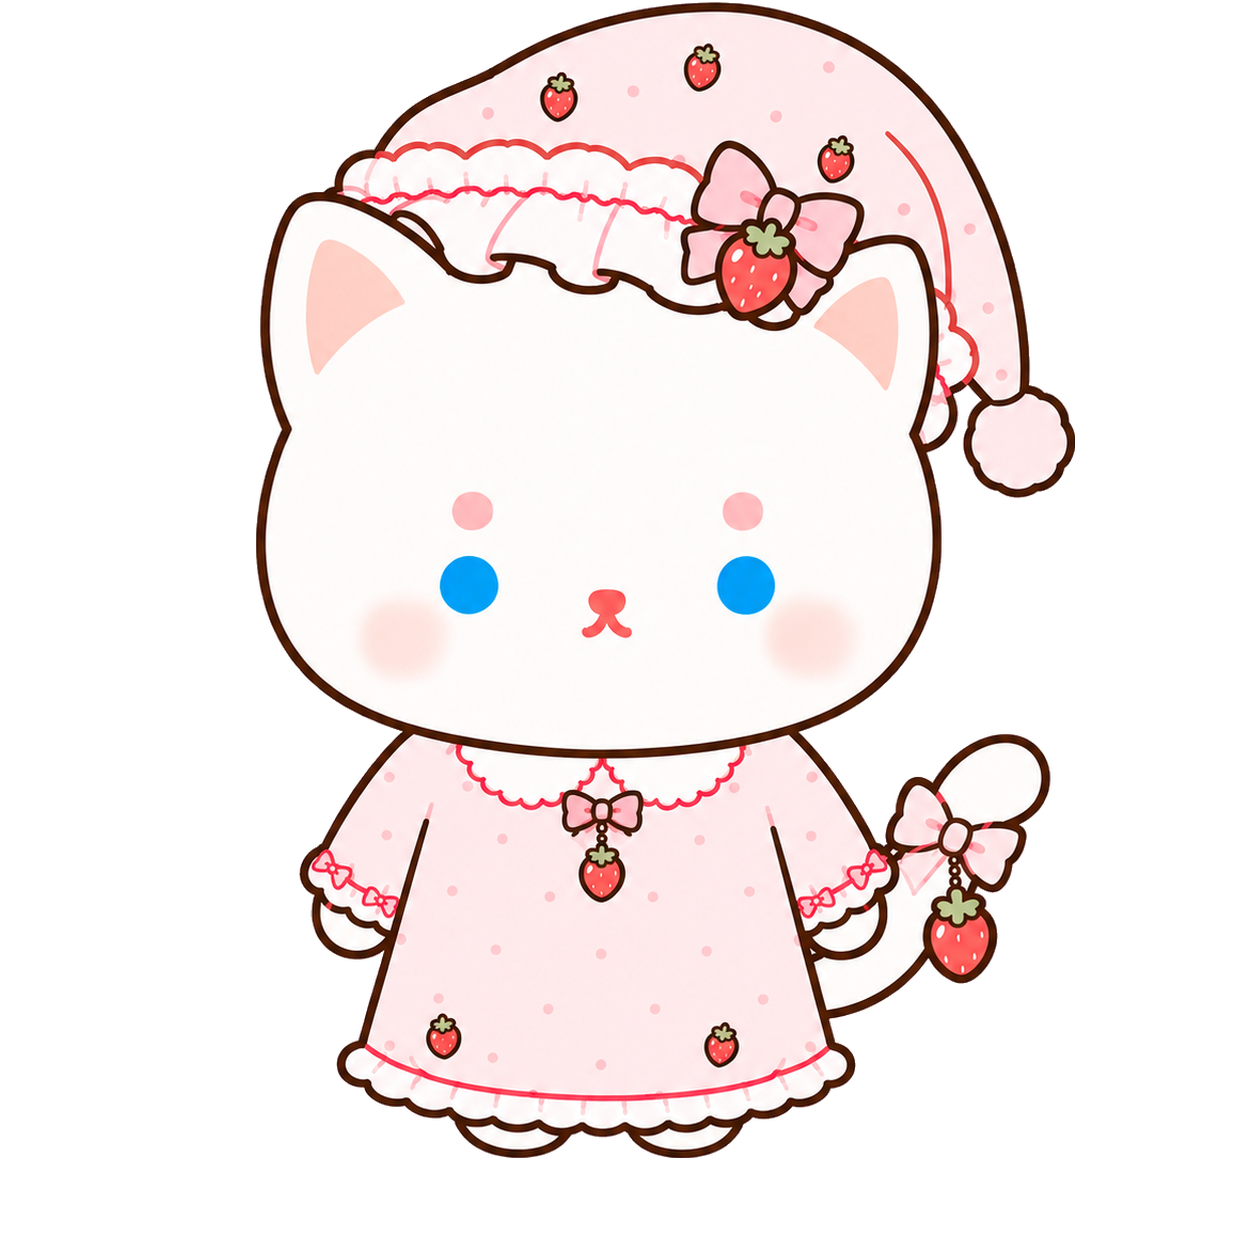
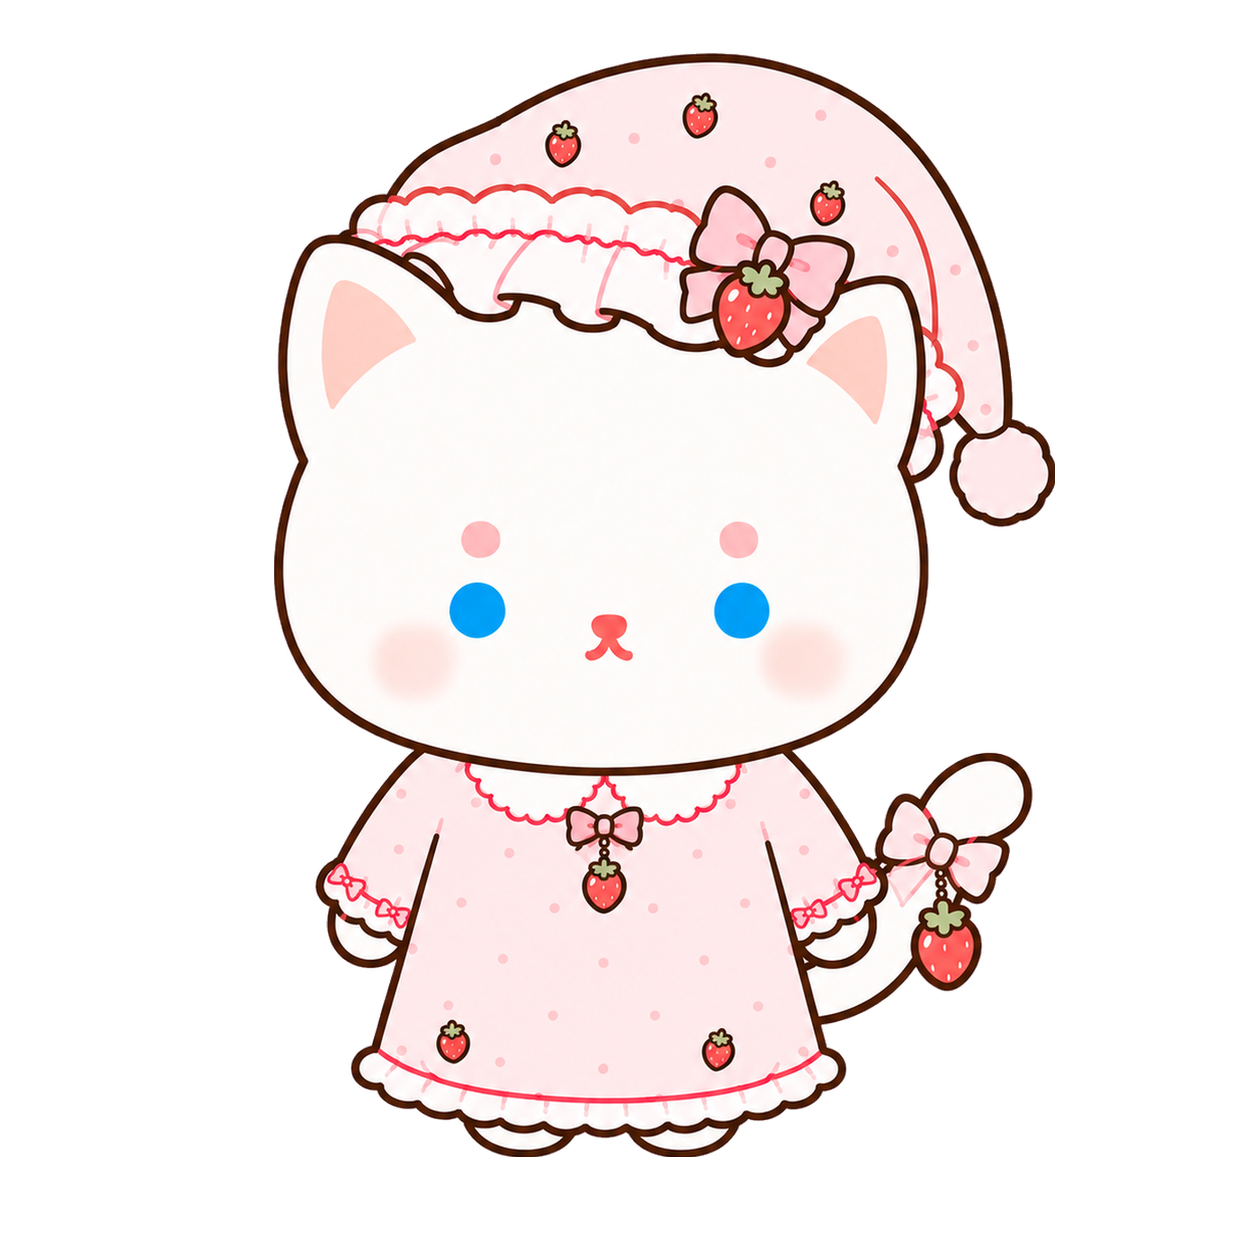
fix(bun): shrink whole cast uniformly (same ratio), feet aligned
Scale every Bun outfit down 0.90x together so they read a touch smaller
while staying the same size as each other; re-land all feet on the shared
line (also brings dreams back onto it after its face-match push). Metrics
re-measured.

diff --git a/src/constants/figure-calibration.ts b/src/constants/figure-calibration.ts
@@ -4,11 +4,11 @@
 // fractions of the square render box (contentFit: "contain"). Consumed by
 // src/lib/figure-height.ts to equalize figure heights in the study room.
 export const FIGURE_METRICS: Record<string, { fill: number; pad: number }> = {
-  'bun/angel': { fill: 0.9092, pad: 0.0723 },
-  'bun/classic': { fill: 0.9211, pad: 0.0766 },
-  'bun/dreams': { fill: 0.9219, pad: 0.0766 },
-  'bun/snowrabbit': { fill: 0.9211, pad: 0.0774 },
-  'bun/strawberry': { fill: 0.9211, pad: 0.0774 },
+  'bun/angel': { fill: 0.8168, pad: 0.0773 },
+  'bun/classic': { fill: 0.8285, pad: 0.0774 },
+  'bun/dreams': { fill: 0.8804, pad: 0.0774 },
+  'bun/snowrabbit': { fill: 0.8285, pad: 0.0774 },
+  'bun/strawberry': { fill: 0.8285, pad: 0.0774 },
   'companion_bunny/classic': { fill: 0.8939, pad: 0.0502 },
   'companion_bunny/jiraikei': { fill: 0.8190, pad: 0.0502 },
   'companion_bunny/palace': { fill: 0.9370, pad: 0.0502 },
